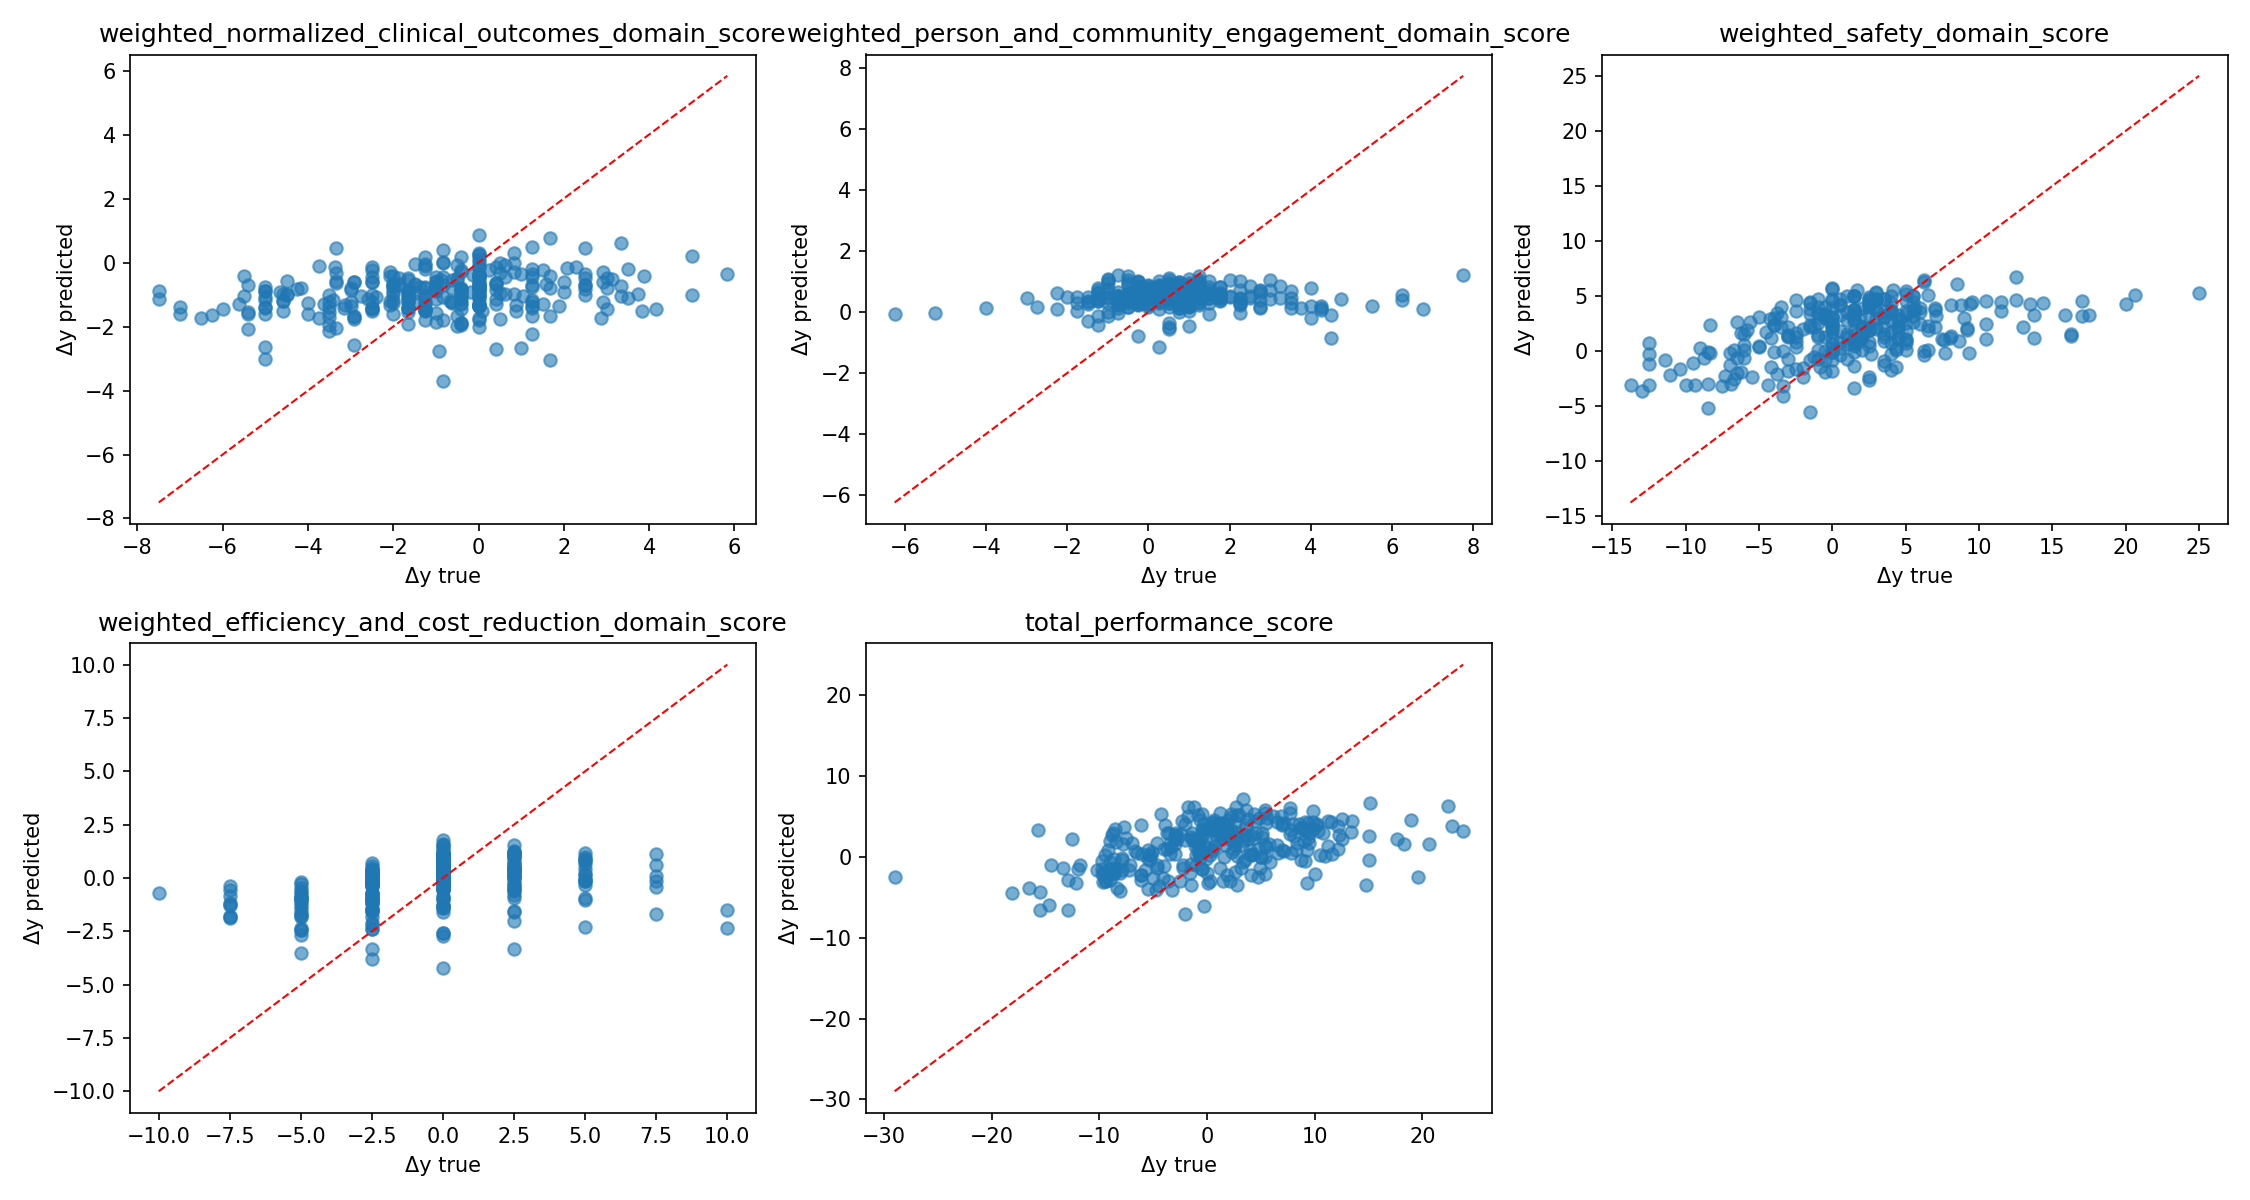
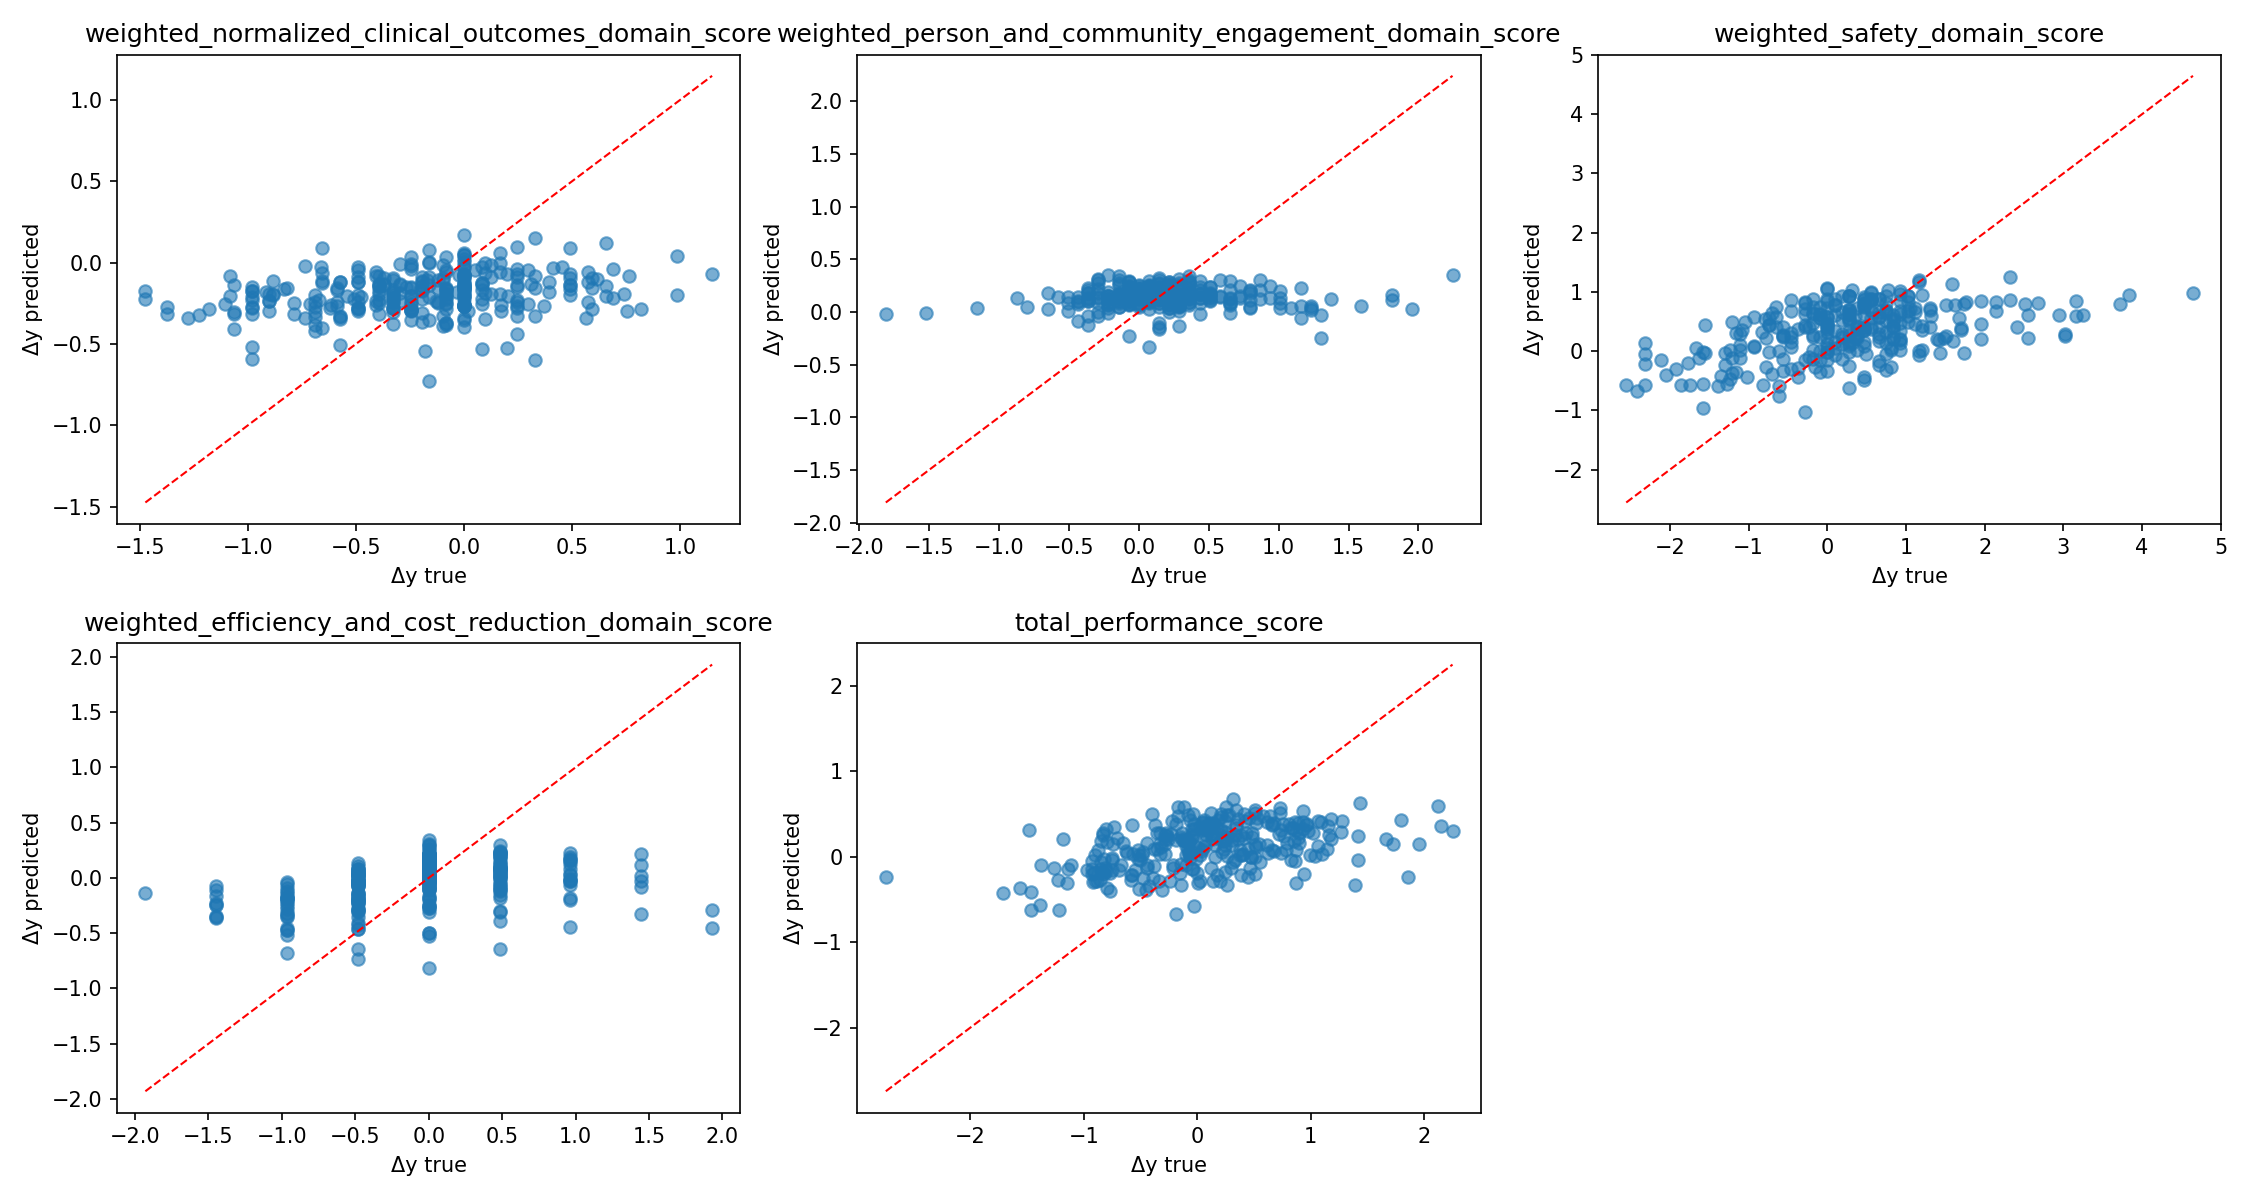
standardization help?

diff --git a/src/model_general_main.py b/src/model_general_main.py
@@ -16,9 +16,10 @@ from train.models import (
     metrics_rsquared,
     metrics_relative,
     fit_linear_regression,
-    fit_lasso_regression,
-    fit_decision_tree_regression,
-    fit_gbm_regression,
+    z_transform,
+    # fit_lasso_regression,
+    # fit_decision_tree_regression,
+    # fit_gbm_regression,
     # fit_random_forest_regression
 )
 
@@ -47,6 +48,28 @@ SELECT * FROM hvbp_tps
 def load_data() -> pd.DataFrame:
     """Load IPFQR facility quality measures."""
     df = ENGINE.exec(QUERY_IPFQR_MEASURES)
+    z_transform(
+        df, "unweighted_normalized_clinical_outcomes_domain_score"
+    )
+    z_transform(
+        df, "weighted_normalized_clinical_outcomes_domain_score"
+    )
+    z_transform(
+        df, "unweighted_person_and_community_engagement_domain_score"
+    )
+    z_transform(
+        df, "weighted_person_and_community_engagement_domain_score"
+    )
+    z_transform(df, "unweighted_normalized_safety_domain_score")
+    z_transform(df, "weighted_safety_domain_score")
+    z_transform(
+        df,
+        "unweighted_normalized_efficiency_and_cost_reduction_domain_score",
+    )
+    z_transform(
+        df, "weighted_efficiency_and_cost_reduction_domain_score"
+    )
+    z_transform(df, "total_performance_score")
     return df
 
 

diff --git a/src/model_psychiatric_main.py b/src/model_psychiatric_main.py
@@ -12,13 +12,14 @@ from train.search import gbm_grid_search
 import matplotlib.pyplot as plt
 from train.models import (
     plot_delta_scatter,
-    metrics_effective_delta_rsquared,
     metrics_rsquared,
     metrics_relative,
     fit_linear_regression,
-    fit_lasso_regression,
-    fit_decision_tree_regression,
-    fit_gbm_regression,
+    z_transform,
+    # metrics_effective_delta_rsquared,
+    # fit_lasso_regression,
+    # fit_decision_tree_regression,
+    # fit_gbm_regression,
     # fit_random_forest_regression
 )
 
@@ -99,22 +100,6 @@ SELECT
 # tr_1_percent as tr_1_percent,
 # imm_2_percent as imm_2_percent,
 # readm_30_ipf_rate as readm_30_ipf_rate
-
-
-def z_transform(df: pd.DataFrame, col: str):
-    """
-    Z-transform a column in a DataFrame.
-    """
-    mean = df[col].mean()
-    std = df[col].std(ddof=0)  # or ddof=1 if you prefer
-
-    if std == 0 or np.isnan(std):
-        raise Exception
-        z = (df[col] - mean) * 0  # all zeros
-    else:
-        z = (df[col] - mean) / std
-
-    df[col] = z
 
 
 def load_data() -> pd.DataFrame:

diff --git a/src/train/models.py b/src/train/models.py
@@ -6,7 +6,9 @@ from sklearn.linear_model import LinearRegression
 from sklearn.linear_model import MultiTaskLasso
 from sklearn.multioutput import MultiOutputRegressor
 from sklearn.tree import DecisionTreeRegressor
-from sklearn.metrics import r2_score
+
+# from sklearn.metrics import r2_score
+import pandas as pd
 import matplotlib.pyplot as plt
 from typing import Protocol, List
 
@@ -160,3 +162,19 @@ def plot_delta_scatter(
     plt.tight_layout()
     plt.savefig(out_file, dpi=150)
     plt.close()
+
+
+def z_transform(df: pd.DataFrame, col: str):
+    """
+    Z-transform a column in a DataFrame.
+    """
+    mean = df[col].mean()
+    std = df[col].std(ddof=0)  # or ddof=1 if you prefer
+
+    if std == 0 or np.isnan(std):
+        raise Exception
+        z = (df[col] - mean) * 0  # all zeros
+    else:
+        z = (df[col] - mean) / std
+
+    df[col] = z
